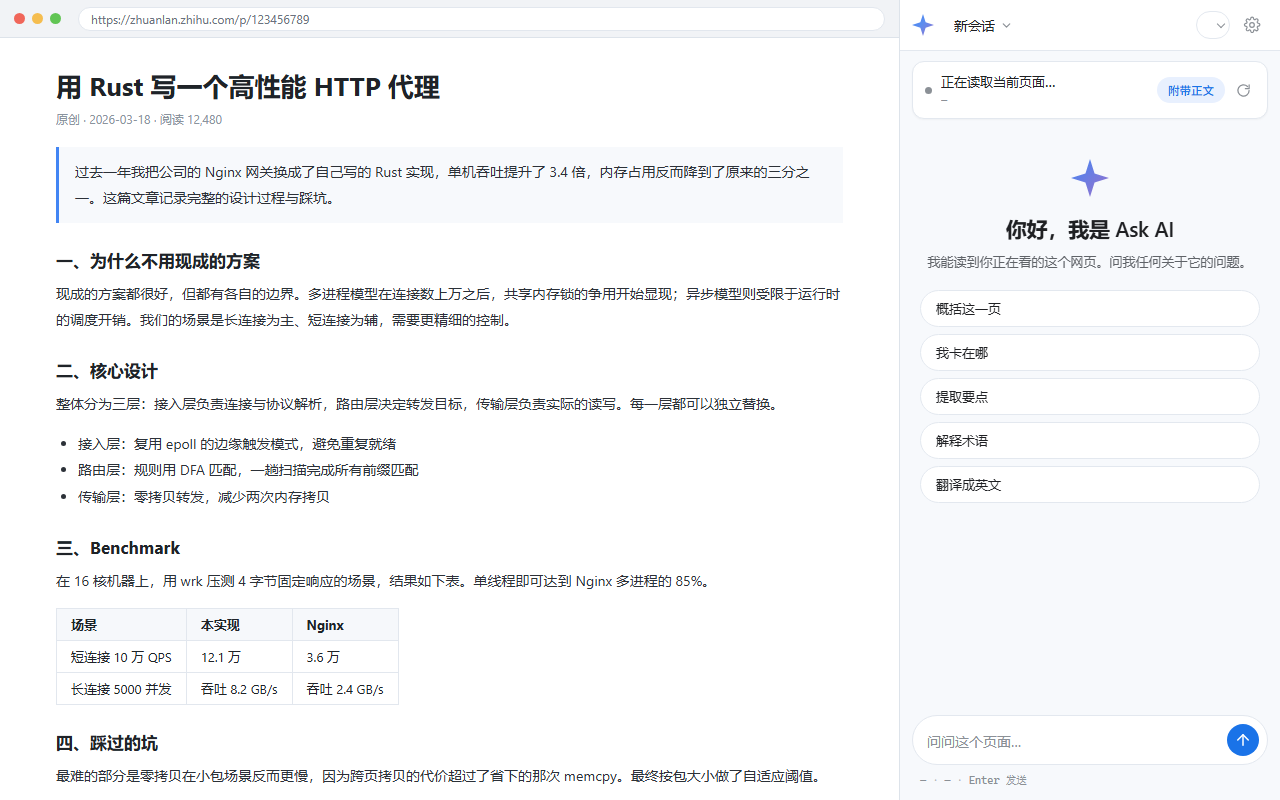
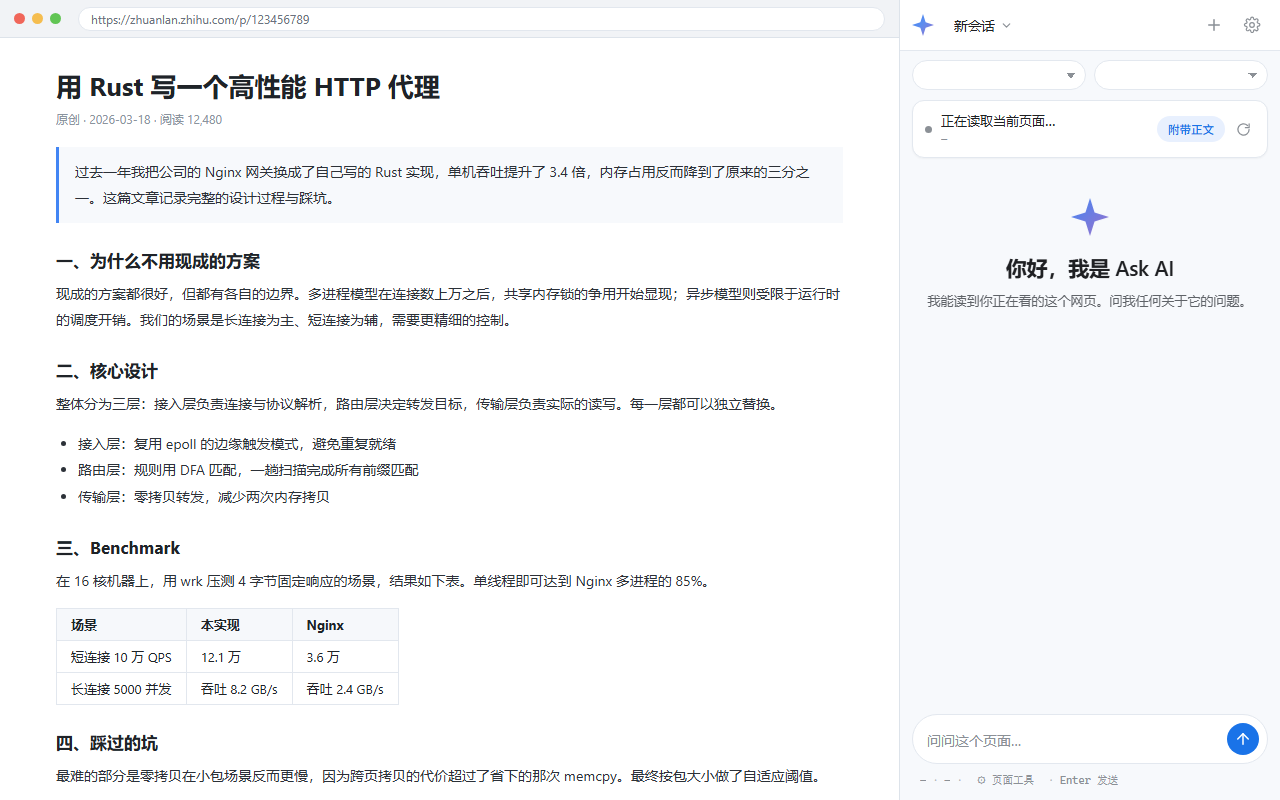
chore: 商店展示图改用真实 sidepanel.html 渲染，清理重复目录
- tools/store-shots.py：对话态截图不再手写 mock，直接由真实 sidepanel.html + sidepanel.css 生成，
  父页面在 iframe 加载后注入填充脚本（无头截图时 iframe 内 <script src> 不一定跑得到）
- 渲染全程走本地 HTTP：新版 headless 在 file:// 下不执行脚本，会导致填充失效
- 新增 tools/store-shot-fill.js：填充脚本与真实界面结构绑定，改界面后重跑即可同步
- docs/screenshots 三张图按 v1.2.0 界面重新生成
- README / sync-extension.py 说明改为「仓库根目录即可直接加载」

diff --git a/tools/store-shot-fill.js b/tools/store-shot-fill.js
@@ -1,0 +1,102 @@
+/**
+ * 商店展示图用的「填充脚本」：把真实 sidepanel.html 填成一段示例对话。
+ *
+ * 只在生成截图时使用（tools/store-shots.py 会把它注入 sidepanel.html）。
+ * 好处：截图里的界面结构永远来自真实的 sidepanel.html + sidepanel.css，
+ *       改了真实界面再跑一次截图就不会对不上。
+ */
+(function () {
+  const $ = (s) => document.querySelector(s);
+
+  /* ---- 顶栏 / 模型栏 ---- */
+  const title = $('#session-title');
+  if (title) title.textContent = '这篇讲了什么';
+
+  const provider = $('#provider');
+  if (provider) {
+    provider.innerHTML = '<option value="anthropic">Anthropic Claude</option>';
+    provider.value = 'anthropic';
+  }
+  const model = $('#model');
+  if (model) {
+    model.innerHTML =
+      '<option value="claude-sonnet-4-5">claude-sonnet-4-5</option>' +
+      '<option value="claude-opus-4-1">claude-opus-4-1</option>' +
+      '<option value="claude-haiku-4-5">claude-haiku-4-5</option>';
+    model.value = 'claude-sonnet-4-5';
+  }
+
+  /* ---- 页面上下文 ---- */
+  const ctxTitle = $('#ctx-title');
+  if (ctxTitle) ctxTitle.textContent = '用 Rust 写一个高性能 HTTP 代理 - 知乎';
+  const ctxMeta = $('#ctx-meta');
+  if (ctxMeta) ctxMeta.textContent = '4821 字 · 选区 128 字';
+  const ctxSize = $('#ctx-size');
+  if (ctxSize) ctxSize.textContent = '正文 4821 字';
+  const modelTag = $('#model-tag');
+  if (modelTag) modelTag.textContent = 'claude-sonnet-4-5 · anthropic';
+
+  const dot = $('#ctx-dot');
+  if (dot) dot.className = 'ctx-dot ok';
+
+  const body = $('#toggle-body');
+  if (body) body.classList.add('is-on');
+
+  const toolsChip = $('#toggle-tools');
+  if (toolsChip) {
+    toolsChip.classList.add('is-on');
+    toolsChip.textContent = '⚙ 页面工具 开';
+  }
+
+  /* ---- 对话内容 ---- */
+  const empty = $('#empty');
+  if (empty) empty.hidden = true;
+
+  const thread = $('#thread');
+  if (!thread) return;
+
+  const el = (tag, cls, text) => {
+    const n = document.createElement(tag);
+    if (cls) n.className = cls;
+    if (text != null) n.textContent = text;
+    return n;
+  };
+
+  const userMsg = el('div', 'msg user');
+  userMsg.append(el('div', 'bubble', '这篇讲的核心思路是什么？和 Nginx 比呢？'));
+  thread.append(userMsg);
+
+  const asst = el('div', 'msg assistant');
+  asst.append(el('div', 'msg-role', 'Claude · claude-sonnet-4-5'));
+
+  const activity = el('div', 'activity');
+  const rows = [
+    ['s-done', '✓', '读取页面源码', 'HTML 82KB · 3 段内联 CSS · 12 个网络请求'],
+    ['s-done', '✓', '查看元素', '#benchmark-table > tbody > tr'],
+  ];
+  for (const [cls, icon, name, detail] of rows) {
+    const row = el('div', 'act-row ' + cls);
+    row.append(el('span', 'act-icon', icon), el('span', 'act-name', name), el('span', 'act-detail', detail));
+    activity.append(row);
+  }
+  asst.append(activity);
+
+  const bubble = el('div', 'bubble');
+  bubble.innerHTML =
+    '<p>这篇的核心是<strong>自研事件循环 + 零拷贝</strong>两条主线：</p>' +
+    '<ul><li>用 <code>io_uring</code> 替代 epoll，单线程就能扛 12 万 QPS</li>' +
+    '<li>零拷贝转发省掉两次 <code>memcpy</code>，吞吐提升约 40%</li></ul>' +
+    '<h3>和 Nginx 的差异</h3>' +
+    '<p>Nginx 是多进程 + 共享内存模型，而它是单线程异步，延迟更稳但单机上限更低。</p>' +
+    '<pre><code>accept_loop → epoll_wait → read → write</code></pre>' +
+    '<p>建议先看第 3 节的 benchmark 表，<a href="https://example.com" target="_blank" rel="noreferrer noopener">原文在这里</a>。</p>';
+  asst.append(bubble);
+
+  const msgTools = el('div', 'msg-tools');
+  msgTools.append(el('button', null, '复制'), el('button', null, '重新生成'));
+  asst.append(msgTools);
+  thread.append(asst);
+
+  const input = $('#input');
+  if (input) input.value = '';
+})();

diff --git a/tools/store-shots.py b/tools/store-shots.py
@@ -5,9 +5,12 @@
 
 需要本机装有 Chrome；路径会自动按脚本位置推导，不含任何个人绝对路径。
 """
+import http.server
 import os
 import shutil
+import socketserver
 import subprocess
+import threading
 
 HERE = os.path.dirname(os.path.abspath(__file__))
 ROOT = os.path.dirname(HERE)
@@ -30,49 +33,21 @@ SHOTS = os.path.join(ROOT, "docs", "screenshots")
 os.makedirs(VIEW, exist_ok=True)
 os.makedirs(SHOTS, exist_ok=True)
 
-for f in ("sidepanel.css", "sidepanel.html", "sidepanel.js", "providers.js", "options.css", "options.html", "options.js"):
+for f in ("sidepanel.css", "sidepanel.html", "sidepanel.js", "providers.js", "page-tools.js",
+          "options.css", "options.html", "options.js"):
     shutil.copy(os.path.join(ROOT, f), os.path.join(VIEW, f))
+shutil.copy(os.path.join(HERE, "store-shot-fill.js"), os.path.join(VIEW, "store-shot-fill.js"))
 
-# ---- 对话态 demo（静态消息）----
-demo = """<!DOCTYPE html><html lang="zh-CN"><head><meta charset="utf-8">
-<link rel="stylesheet" href="sidepanel.css"></head><body>
-<header class="topbar">
-  <div class="tb-left"><span class="mark"></span>
-    <div class="session-wrap"><button class="session-btn"><span>这篇讲了什么</span>
-      <svg class="chev" viewBox="0 0 24 24" width="13" height="13" fill="none" stroke="currentColor" stroke-width="2.2" stroke-linecap="round" stroke-linejoin="round"><path d="M6 9l6 6 6-6"/></svg></button></div>
-  </div>
-  <div class="tb-right"><select id="provider"><option>Claude</option></select>
-    <button class="icon-btn"><svg viewBox="0 0 24 24" width="18" height="18" fill="none" stroke="currentColor" stroke-width="1.6"><circle cx="12" cy="12" r="3.1"/><path d="M19.1 14.5a1.5 1.5 0 0 0 .3 1.7l.1.1a1.9 1.9 0 1 1-2.7 2.7l-.1-.1a1.5 1.5 0 0 0-2.6 1v.2a1.9 1.9 0 1 1-3.8 0v-.1a1.5 1.5 0 0 0-2.6-1l-.1.1a1.9 1.9 0 1 1-2.7-2.7l.1-.1a1.5 1.5 0 0 0-1-2.6h-.2a1.9 1.9 0 1 1 0-3.8h.1a1.5 1.5 0 0 0 1-2.6l-.1-.1a1.9 1.9 0 1 1 2.7-2.7l.1.1a1.5 1.5 0 0 0 1.7.3h.1a1.5 1.5 0 0 0 .9-1.4v-.2a1.9 1.9 0 1 1 3.8 0v.1a1.5 1.5 0 0 0 2.6 1l.1-.1a1.9 1.9 0 1 1 2.7 2.7l-.1.1a1.5 1.5 0 0 0 1 2.6h.2a1.9 1.9 0 1 1 0 3.8h-.1a1.5 1.5 0 0 0-1.4.9z"/></svg></button></div>
-</header>
-<section class="ctxcard">
-  <div class="ctx-left"><span class="ctx-dot ok"></span>
-    <div class="ctx-text"><div class="ctx-title">用 Rust 写一个高性能 HTTP 代理 - 知乎</div>
-    <div class="ctx-sub">4821 字 · 选区 128 字</div></div></div>
-  <div class="ctx-right"><button class="pill is-on">附带正文</button>
-    <button class="icon-btn sm"><svg viewBox="0 0 24 24" width="15" height="15" fill="none" stroke="currentColor" stroke-width="2" stroke-linecap="round"><path d="M21 12a9 9 0 1 1-2.6-6.4"/><path d="M21 3v6h-6"/></svg></button></div>
-</section>
-<main class="thread">
-  <div class="msg user"><div class="bubble">这篇讲的核心思路是什么？和 Nginx 比呢？</div></div>
-  <div class="msg assistant">
-    <div class="msg-role">Claude</div>
-    <div class="bubble">
-      <p>这篇的核心是<strong>自研事件循环 + 零拷贝</strong>两条主线：</p>
-      <ul><li>用 <code>io_uring</code> 替代 epoll，单线程就能扛 12 万 QPS</li><li>零拷贝转发省掉两次 <code>memcpy</code>，吞吐提升约 40%</li></ul>
-      <h3>和 Nginx 的差异</h3>
-      <p>Nginx 是多进程 + 共享内存模型，而它是单线程异步，延迟更稳但单机上限更低。</p>
-      <pre><code>accept_loop → epoll_wait → read → write</code></pre>
-      <p>建议先看第 3 节的 benchmark 表，<a href="https://example.com" target="_blank" rel="noreferrer noopener">原文在这里</a>。</p>
-    </div>
-    <div class="msg-tools"><button>复制</button><button>重新生成</button></div>
-  </div>
-</main>
-<footer class="composer">
-  <div class="composer-box"><textarea id="input" rows="1" placeholder="问问这个页面…"></textarea>
-    <button class="send"><svg viewBox="0 0 24 24" width="18" height="18" fill="none" stroke="currentColor" stroke-width="2" stroke-linecap="round"><path d="M12 19V5"/><path d="M5 12l7-7 7 7"/></svg></button></div>
-  <div class="composer-foot"><span>正文 4821 字</span><span class="sep">·</span><span>claude-sonnet-4-5</span><span class="sep">·</span><span>Enter 发送</span></div>
-</footer>
-</body></html>"""
-open(os.path.join(VIEW, "demo.html"), "w", encoding="utf-8").write(demo)
+# 对话态：直接用真实的 sidepanel.html，只把模块脚本换成填充脚本，
+# 这样截图里的结构永远和真实界面一致，不会再出现「截图是旧版」的情况。
+with open(os.path.join(VIEW, "sidepanel.html"), encoding="utf-8") as f:
+    _real = f.read()
+_chat = _real.replace(
+    '<script type="module" src="sidepanel.js"></script>',
+    '<script src="store-shot-fill.js"></script>',
+)
+with open(os.path.join(VIEW, "chat.html"), "w", encoding="utf-8") as f:
+    f.write(_chat)
 
 # ---- 模拟网页 ----
 MOCK = """
@@ -130,20 +105,58 @@ body { display: flex; background: #eef1f5; font-family: "Segoe UI", "PingFang SC
 """
 
 
-def composer(name, panel_page):
-    return f"""<!DOCTYPE html><html><head><meta charset="utf-8"><style>{MOCK_CSS}</style></head>
-<body>{MOCK}<div class="panel-holder"><iframe src="file:///{VIEW.replace(chr(92), '/')}/{panel_page}"></iframe></div>
-</body></html>"""
+PORT = 8733
 
+
+class Quiet(http.server.SimpleHTTPRequestHandler):
+    def log_message(self, *a):
+        pass
+
+
+def serve(directory):
+    handler = lambda *a, **kw: Quiet(*a, directory=directory, **kw)  # noqa: E731
+    httpd = socketserver.TCPServer(("127.0.0.1", PORT), handler)
+    threading.Thread(target=httpd.serve_forever, daemon=True).start()
+    return httpd
+
+
+def composer(name, panel_page, fill=False):
+    # 填充代码由父页面在 iframe 加载完成后注入并立即执行：
+    # 无头截图时 iframe 里的 <script src> 不一定来得及跑，注入更可靠。
+    fill_js = ""
+    if fill:
+        with open(os.path.join(HERE, "store-shot-fill.js"), encoding="utf-8") as f:
+            fill_js = f.read()
+    html = f"""<!DOCTYPE html><html><head><meta charset="utf-8"><style>{MOCK_CSS}</style></head>
+<body>{MOCK}<div class="panel-holder"><iframe id="panel" src="http://127.0.0.1:{PORT}/{panel_page}"></iframe></div>
+<script>
+(function () {{
+  var FILL = {fill_js!r};
+  var f = document.getElementById('panel');
+  f.addEventListener('load', function () {{
+    var doc = f.contentDocument;
+    if (!doc) return;
+    var s = doc.createElement('script');
+    s.textContent = FILL;
+    doc.body.appendChild(s);
+  }});
+}})();
+</script>
+</body></html>"""
+    path = os.path.join(VIEW, "c-" + name + ".html")
+    with open(path, "w", encoding="utf-8") as f:
+        f.write(html)
+    return path
+
+
+httpd = serve(VIEW)
 
 jobs = [
-    ("01-overview.png", composer("overview", "sidepanel.html")),
-    ("02-chat.png", composer("chat", "demo.html")),
+    ("01-overview.png", composer("overview", "sidepanel.html", fill=False)),
+    ("02-chat.png", composer("chat", "chat.html", fill=True)),
 ]
 
-for name, html in jobs:
-    p = os.path.join(DEV, "c-" + name + ".html")
-    open(p, "w", encoding="utf-8").write(html)
+for name, p in jobs:
     out = os.path.join(SHOTS, name)
     if os.path.exists(out):
         os.remove(out)
@@ -152,7 +165,7 @@ for name, html in jobs:
             CHROME, "--headless", "--disable-gpu", "--no-first-run", "--allow-file-access-from-files",
             f"--user-data-dir={PROFILE}", "--virtual-time-budget=6000",
             "--window-size=1280,800", "--hide-scrollbars", f"--screenshot={out}",
-            "file:///" + p.replace(chr(92), "/"),
+            "http://127.0.0.1:%d/%s" % (PORT, os.path.basename(p)),
         ],
         capture_output=True, text=True, timeout=180,
     )
@@ -162,8 +175,8 @@ for name, html in jobs:
 opt = f"""<!DOCTYPE html><html><head><meta charset="utf-8"><style>
 html,body{{margin:0;height:100%;background:#fff}}
 iframe{{width:1280px;height:800px;border:0;display:block}}</style></head>
-<body><iframe src="file:///{VIEW.replace(chr(92), '/')}/options.html"></iframe></body></html>"""
-p = os.path.join(DEV, "c-options.html")
+<body><iframe src="http://127.0.0.1:{PORT}/options.html"></iframe></body></html>"""
+p = os.path.join(VIEW, "c-options.html")
 open(p, "w", encoding="utf-8").write(opt)
 out = os.path.join(SHOTS, "03-settings.png")
 if os.path.exists(out):
@@ -173,8 +186,10 @@ subprocess.run(
         CHROME, "--headless", "--disable-gpu", "--no-first-run", "--allow-file-access-from-files",
         f"--user-data-dir={PROFILE}", "--virtual-time-budget=6000",
         "--window-size=1280,800", "--hide-scrollbars", f"--screenshot={out}",
-        "file:///" + p.replace(chr(92), "/"),
+        "http://127.0.0.1:%d/%s" % (PORT, os.path.basename(p)),
     ],
     capture_output=True, text=True, timeout=180,
 )
 print("03-settings.png", os.path.exists(out), os.path.getsize(out) if os.path.exists(out) else 0)
+
+httpd.shutdown()

diff --git a/tools/sync-extension.py b/tools/sync-extension.py
@@ -1,6 +1,9 @@
 """
 把仓库里的扩展运行文件同步到一个目录，供 Chrome「加载已解压的扩展程序」使用。
 
+【大多数用户不需要这个脚本】Chrome 直接加载仓库根目录（有 manifest.json 的那一层）就行，
+仓库根目录本身就是完整可用的扩展。本脚本只给「想把运行文件和文档分开」的人备用。
+
 和 tools/pack.py 共用同一份 RUNTIME 清单，不会出现「打包漏文件」那类问题。
 
 用法（在仓库根目录执行）：

diff --git a/README.md b/README.md
@@ -81,8 +81,10 @@ OpenAI · Claude · Gemini · DeepSeek · Kimi(Moonshot) · 智谱 GLM · 通义
 4. 点 **加载已解压的扩展程序**，选择**仓库根目录**（就是有 `manifest.json` 的那一层）
 5. 点工具栏图标打开侧边栏 → 右上角齿轮填 API Key
 
-> 想把运行文件和文档分开？`python tools/sync-extension.py` 会把扩展运行文件复制到
-> `../ask-ai-extension/`，之后加载那个目录即可（`--check` 只比对差异，`--clean` 顺手清理多余文件）。
+仓库根目录本身就是完整可用的扩展，**直接加载它即可**（`docs/`、`tools/`、`dist/`、`.git/`
+这些 Chrome 会自动忽略）。只有想把运行文件和文档分开时，才需要
+`python tools/sync-extension.py` 把运行文件复制到另一个目录再加载那个目录
+（`--check` 只比对差异，`--clean` 顺手清理多余文件）。
 
 > 需要 Chrome 114+（侧边栏 API）。Edge、Opera、Brave 等 Chromium 内核浏览器同样可用。
 
